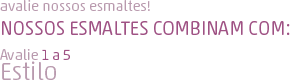
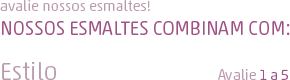
ajustes asistente + página de produtos

Changed region(s): [[0.0, 0.6, 0.2483, 0.775], [0.7448, 0.85, 0.9931, 1.0]]

diff --git a/public/stylesheets/produto_interna.css b/public/stylesheets/produto_interna.css
@@ -32,6 +32,28 @@
 			margin-bottom:10px;
 			text-decoration:underline;
 			}
+			
+#int-produto h4{
+	font-family: 'AkkoRoundedStd-Light';
+	color:#b99aae;
+	font-size:16px;
+	margin-bottom:10px;
+	}
+	#int-produto h4 a{
+		font-family: 'AkkoRoundedStd-Light';
+		color:#b99aae;
+		font-size:16px;
+		margin-bottom:10px;
+		text-decoration:none;
+		}
+		#int-produto h4 a:hover{
+			font-family: 'AkkoRoundedStd-Light';
+			color:#b99aae;
+			font-size:16px;
+			margin-bottom:10px;
+			text-decoration:underline;
+			}
+						
 #int-produto p{
 	font-family: 'Radley';
 	color:#808080;
@@ -50,7 +72,7 @@
 	background-position:center top;
 	background-repeat:no-repeat;
 	width:200px;
-	min-height:51px;
+	min-height:290px;
 	height:auto;
 	text-align:center;
 	}

diff --git a/app/controllers/assistente/estilo_controller.rb b/app/controllers/assistente/estilo_controller.rb
@@ -116,18 +116,22 @@ class Assistente::EstiloController < ApplicationController
     end
     
     if @isTimida
+      @tweet = "Eu sou Tímida! Faça você também o teste! http://www.topbeauty.com.br"
       @titulo = "Você é Tímida!"
       @chamada = "Fica na sua"
       @texto = "Olá, agora que eu já conheço um pouco mais sobre você, posso dizer que seu perfil é de uma pessoa Tímida. Você está sempre na sua, não gosta de contato com grandes multidões, é discreta e adora estar entre amigos mais próximos. Os esmaltes que combinam com você são: "
     elsif @isExtrovertida
+      @tweet = "Eu sou Extrovertida! Faça você também o teste! http://www.topbeauty.com.br"
       @titulo = "Você é Extrovertida!"
       @chamada = "Luz, holofotes, animação!"
       @texto = "Sempre com os amigos, é quem agita a galera pra sair. Comunicativa e animada você é sempre destaque. Por ser o centro das atenções, os esmaltes que mais empolgam você são:"
     elsif @isRomantica
+      @tweet = "Eu sou Romântica! Faça você também o teste! http://www.topbeauty.com.br"
       @titulo = "Você é Romântica!"
       @chamada = "Ahhhhh, o amor!"
       @texto = "Para você o que tem valor na vida são as pequenas coisas, os gestos de carinho e os sentimentos verdadeiros. Sempre em busca do príncipe encantado, idealiza o homem perfeito, que faz de tudo para agradar sua parceira. Seu perfil Romântico pede esmaltes assim: "
     elsif @isOusada
+      @tweet = "Eu sou Ousada! Faça você também o teste! http://www.topbeauty.com.br"
       @titulo = "Você é Ousada!"
       @chamada = "Tô na área!"
       @texto = "Você não tem medo de correr riscos, é ágil, prática e corajosa ao resolver qualquer situação que possa surgir em seu caminho. Nos relacionamentos, o que vale é arriscar, provocar e inovar. Seu perfil é de garota Ousada e no quesito esmaltes, estes são a sua cara: "
